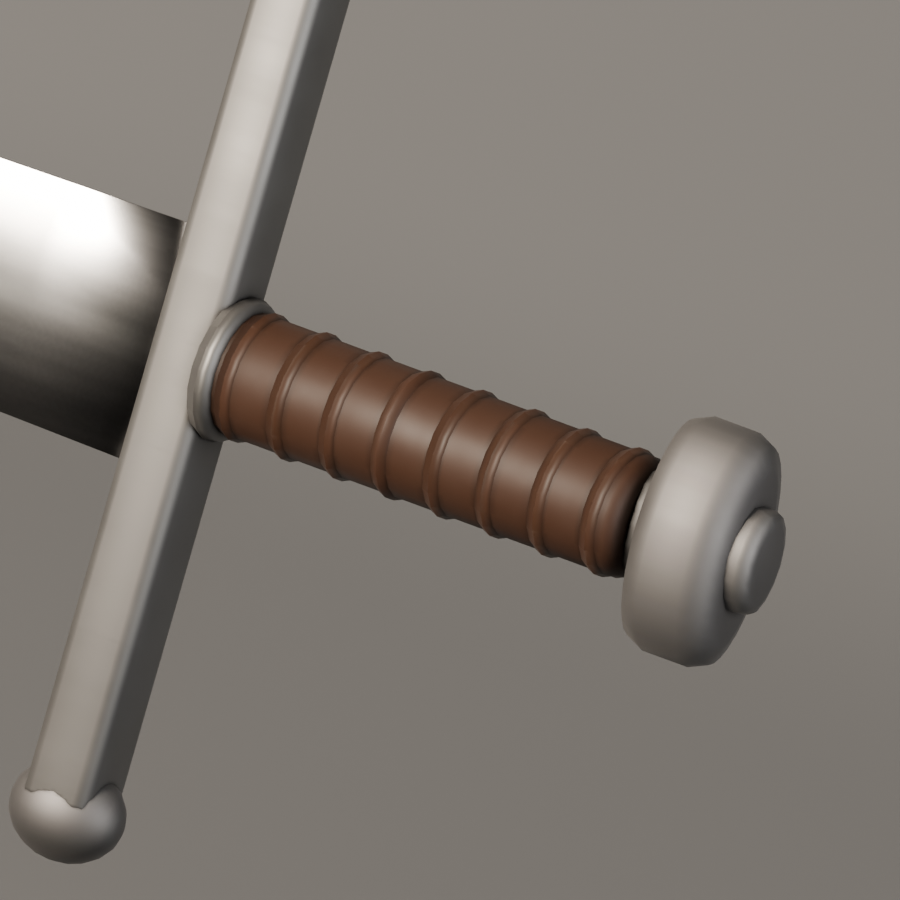
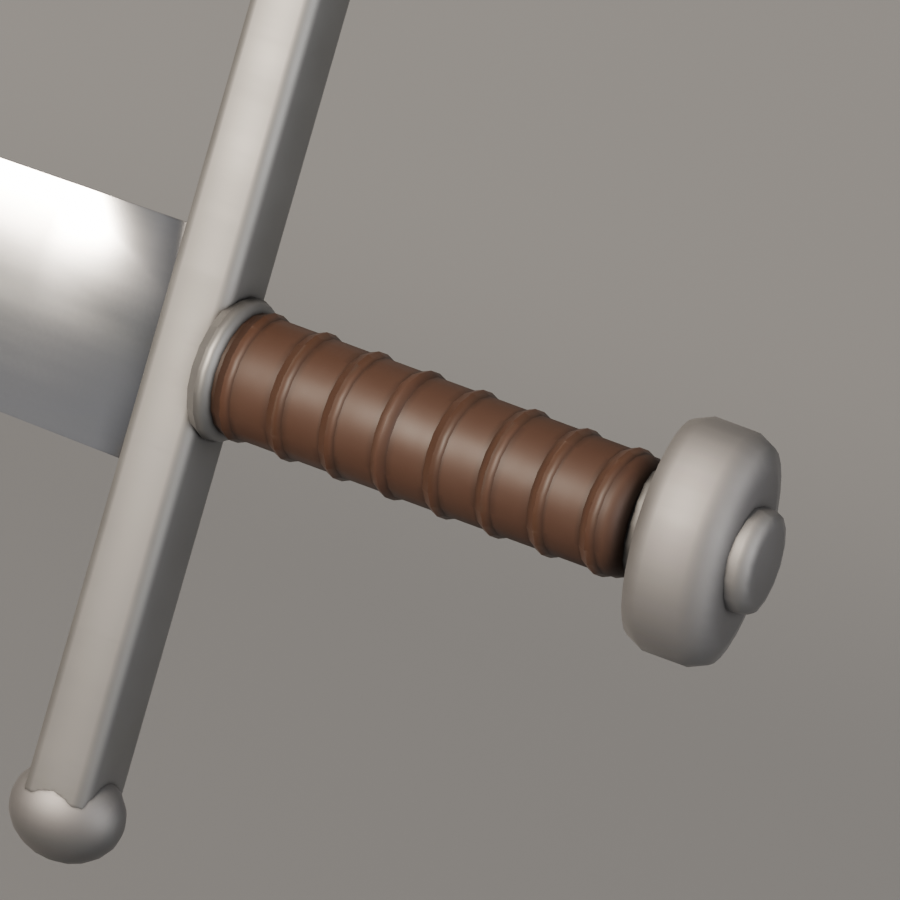
#397 before/after sheet (studio world), renders

diff --git a/handoffs/weapon-kit-aaa/PICKUP.md b/handoffs/weapon-kit-aaa/PICKUP.md
@@ -1,4 +1,4 @@
-# #397 weapon kit AAA: pick-up note (TGA, 2026-11-01, written low on tokens)
+# #397 weapon kit AAA: pick-up note (TGA, 2026-11-01, written low on tokens)
 
 ## Done
 - **Research:** `RESEARCH.md` covers forged steel, forge scale, ash, leather and brass, with sources. The calibrated values table and the 8-point recipe are in it, and the findings are added to `handoffs/knowledge/KNOWLEDGE_LOG.md`.
@@ -26,7 +26,11 @@
   - AAA: pbr_check **OK** (non-metal p50 57, metal p50 197);
   - the live CK version **FAILS** pbr_check (36.7 % of non-metal texels darker than 30 sRGB, 18.9 % of metal texels below 150).
 
-## In flight / next step
+## Status (update)
+- The 5 most-seen weapons are built and pushed (`assets/tga/WeaponsAAA`). All 5 pass pbr_check; all 5 live versions fail it.
+- The before / after sheet is `renders/before_after_5.jpg`, posted on #397 for the owner's OK. It was re-rendered with a studio grey world (WORLD=0.6), because with the 0.05 world polished metal reflected black.
+
+## In flight / next step (original)
 1. The batch for the 5 most-seen weapons (arming sword, longsword, war axe, halberd, flanged mace) was running into `T:\waaa`:
    ```
    powershell -File R:\tools\tga\weapons\run_batch.ps1 -Out T:\waaa
@@ -43,3 +47,4 @@
 ## Known limits
 - The grind line and stoned edge read in the `_detail` renders. At full-weapon distance the difference is mostly roughness and values (KB rule 2).
 - The texture budget: authored at 2K, capped to 1K in the importer (#260).
+
